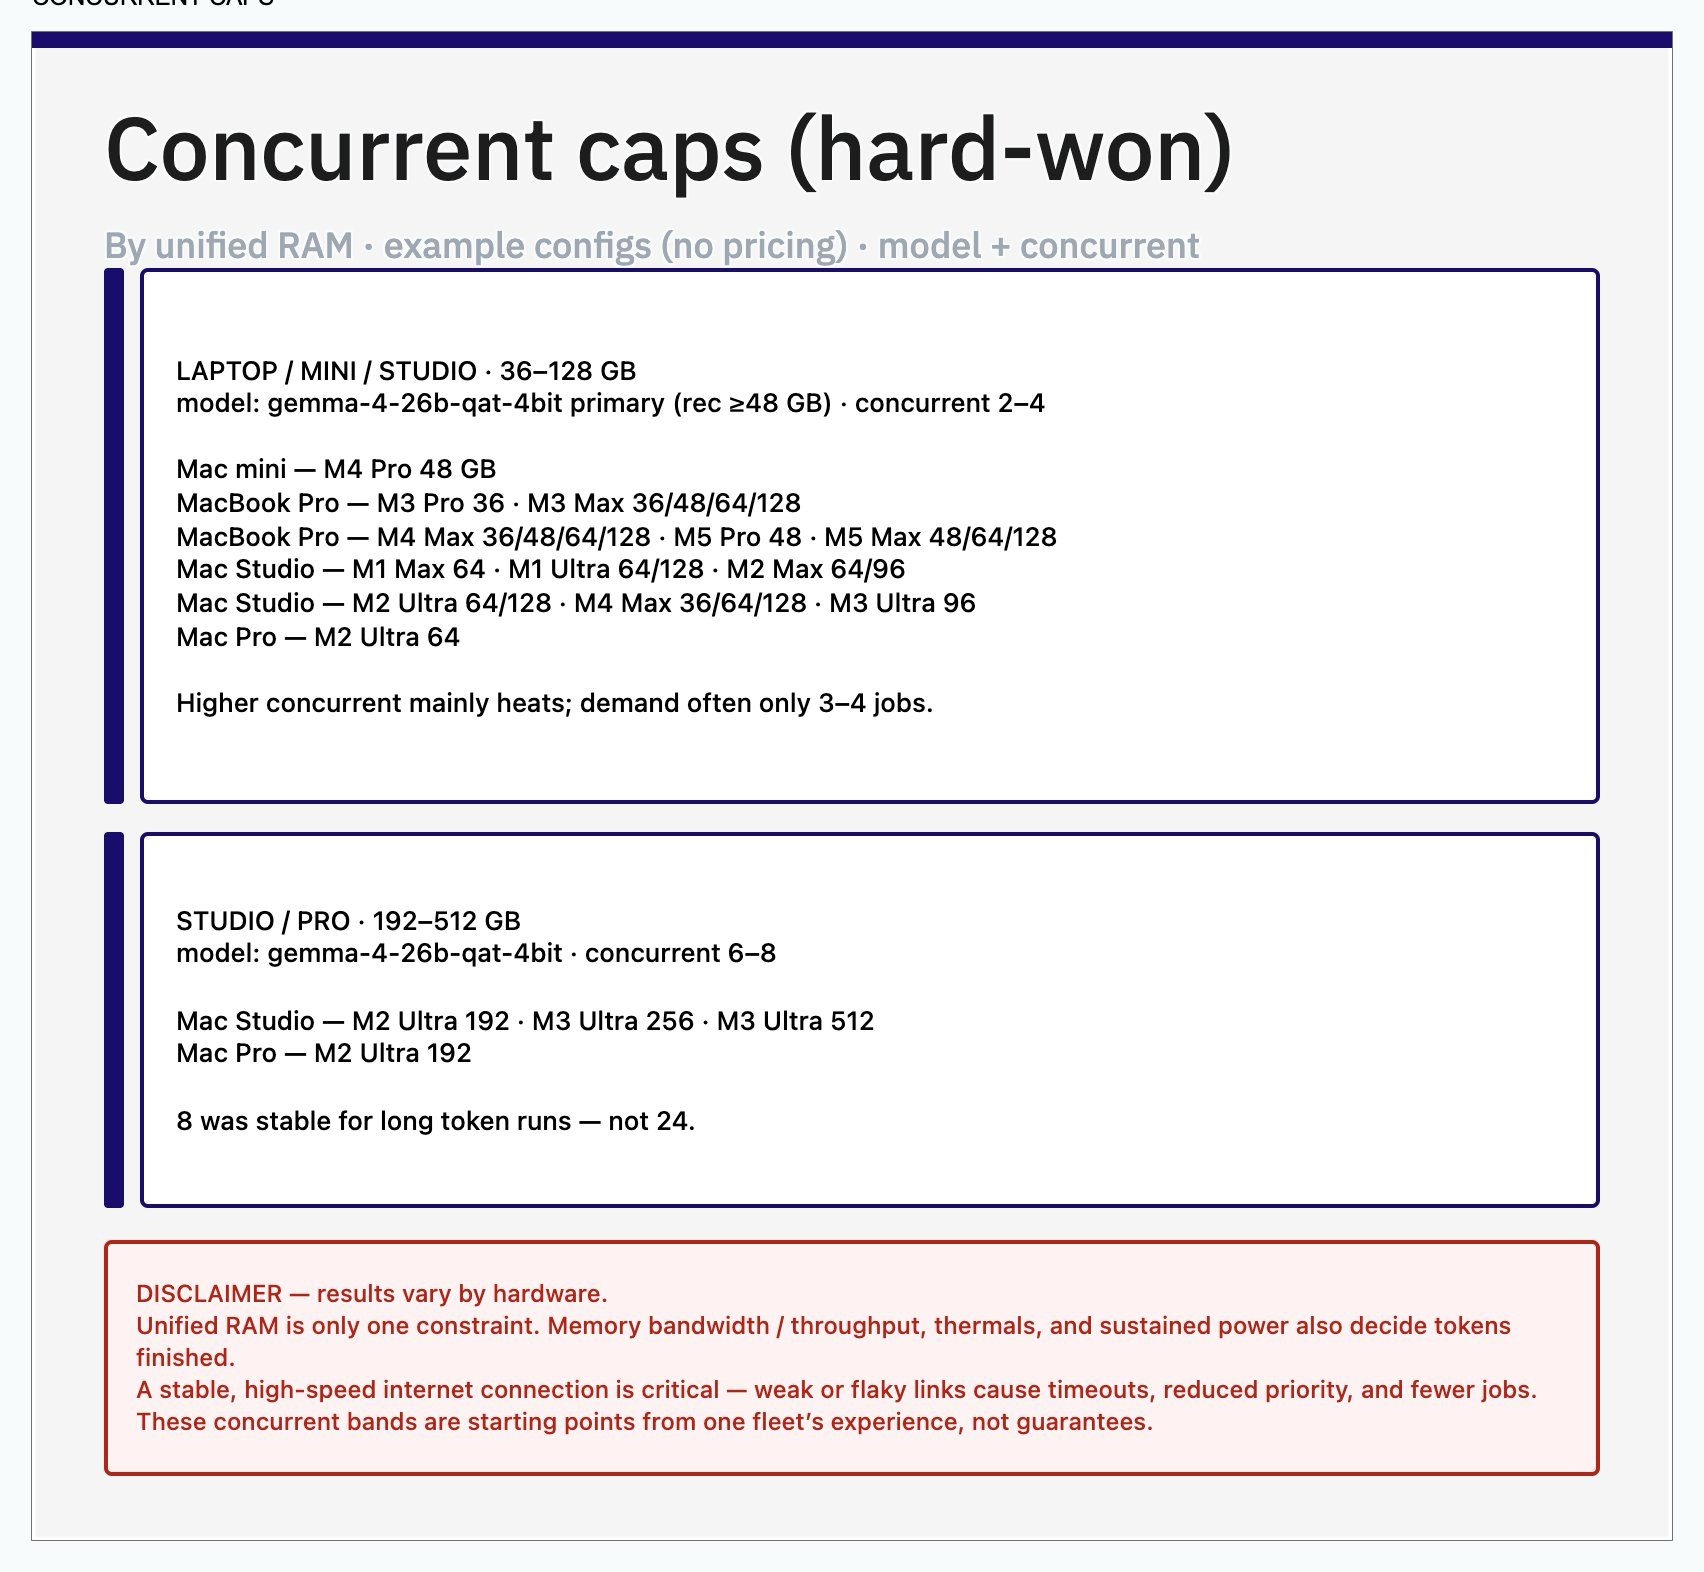
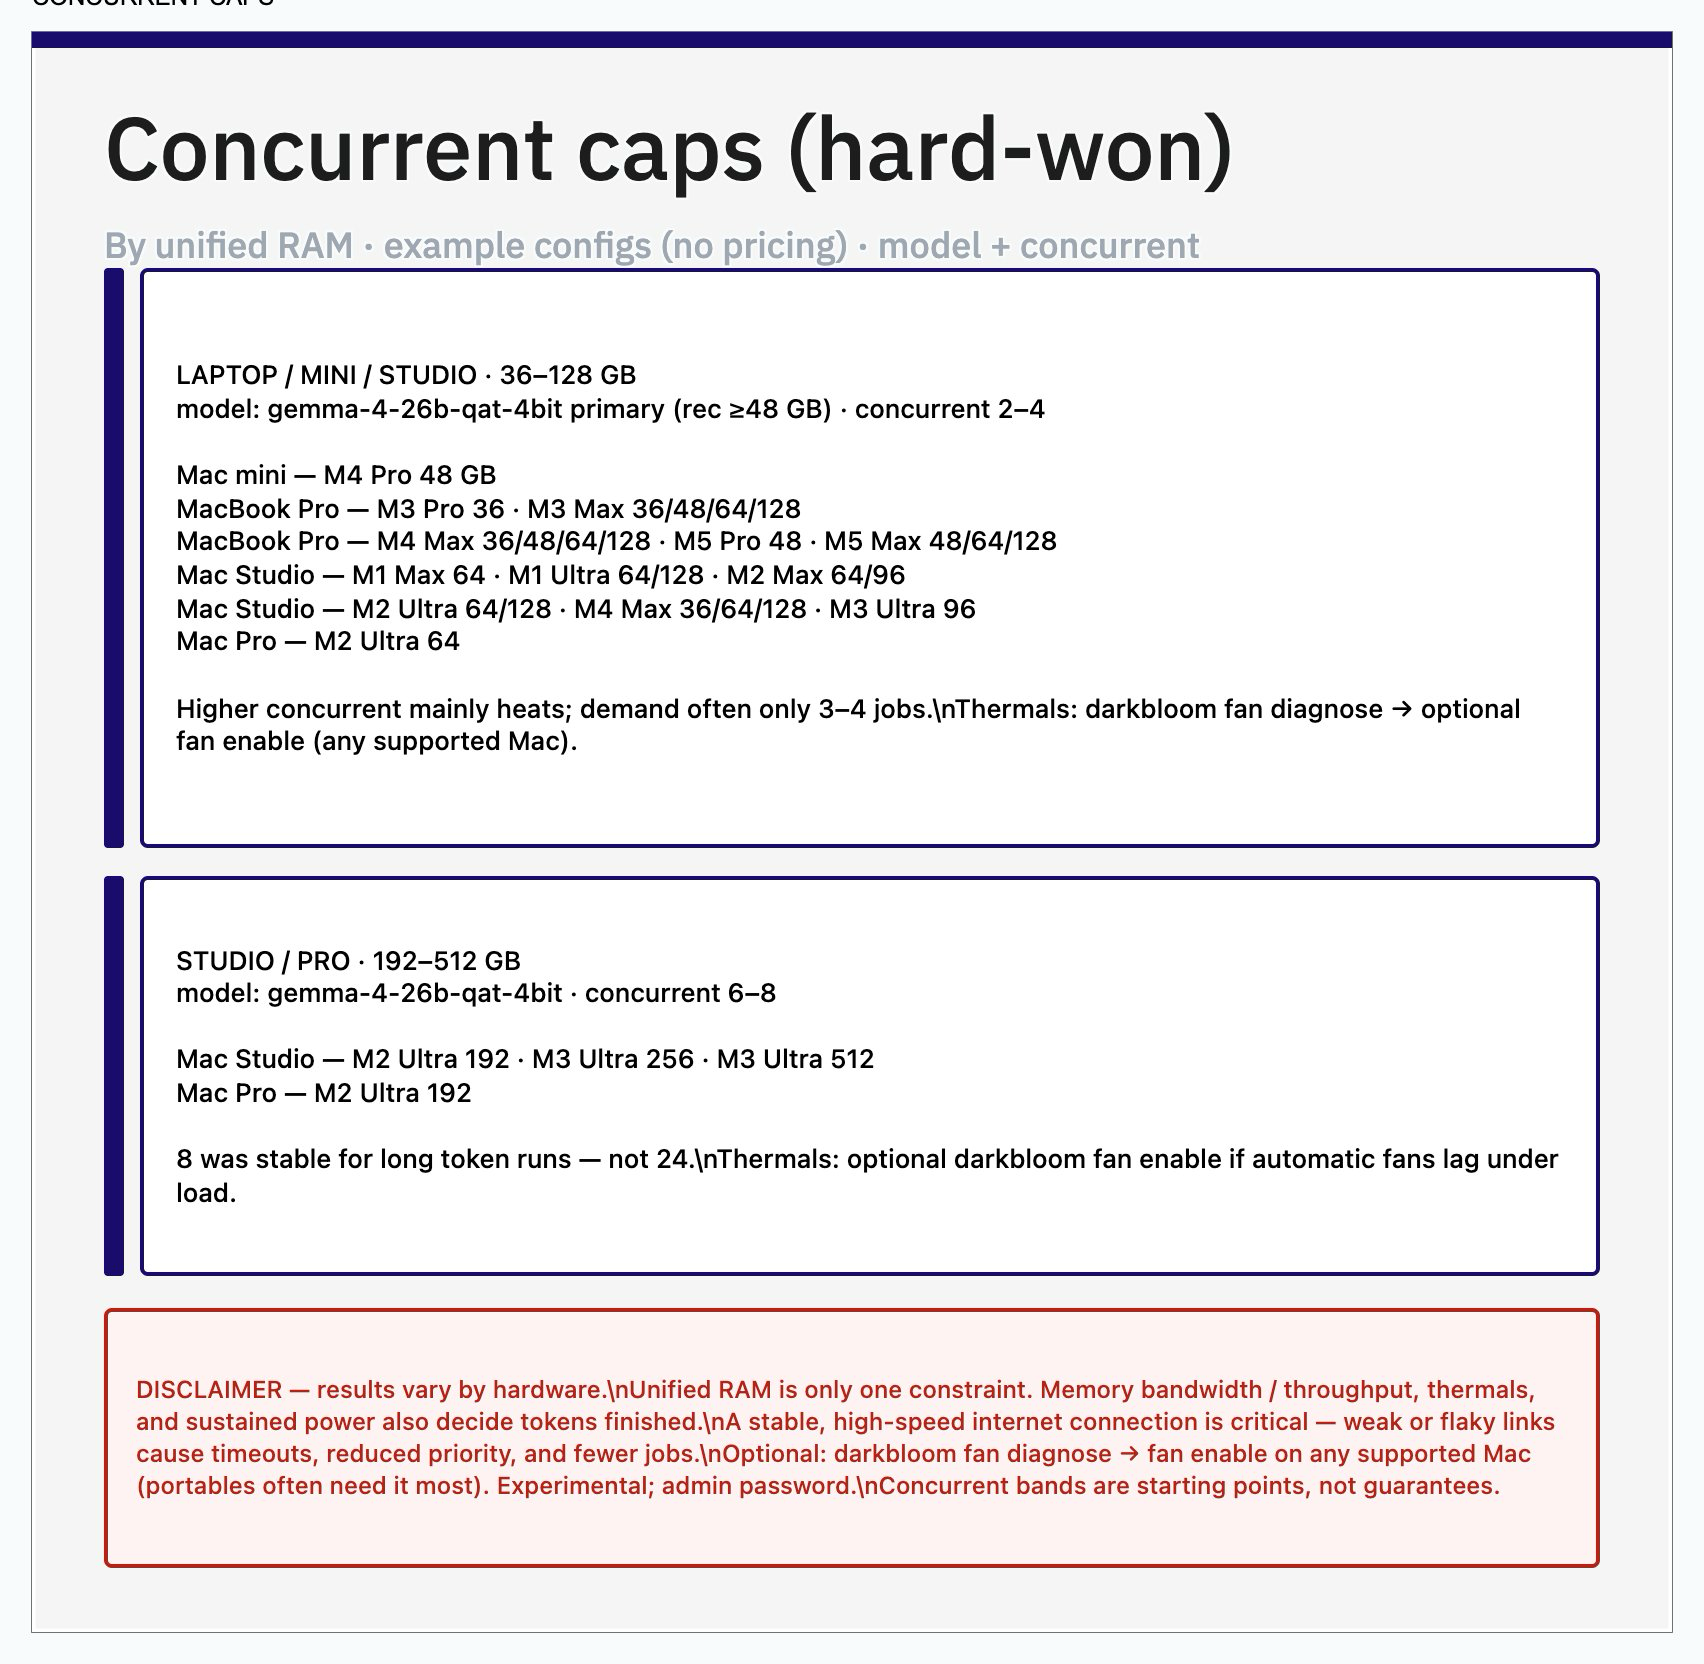
Document experimental fan control for all supported Macs
Add diagnose/enable/configure/disable procedure (not laptop-only;
portables often benefit most). Wire through guide, README, AGENTS,
example config comments, and concurrent/earnings cards with re-exported
PNGs. Fan is CLI/helper only — never a provider.toml key.

diff --git a/guide.md b/guide.md
@@ -300,7 +300,7 @@ v0.7.12 restored exact hybrid SSD prefix reuse for contiguous unquantized Gemma/
 - Stay on **auto_update** (watchdog + predecessor rollback is the safety net).
 - Keep models **warm** (`idle_timeout_mins = 0` on dedicated earn boxes).
 - Prefer **fewer concurrent jobs finishing fast** over many jobs timing out.
-- Keep the machine cool enough that you don’t thermal-throttle mid-stream.
+- Keep the machine cool enough that you don’t thermal-throttle mid-stream (`darkbloom fan diagnose` / optional `fan enable` — see below).
 - After any bad spell: **wait online**, don’t config-thrash.
 
 ### Avoid these
@@ -316,11 +316,62 @@ v0.7.12 restored exact hybrid SSD prefix reuse for contiguous unquantized Gemma/
 | Leaving laptop sleep / no auto-login | Invisible offline hours |
 | Ignoring reduced priority for days | You silently fall out of the good queue |
 
-### Thermals (especially laptops)
+### Thermals
 
-- Elevated fans under load are normal.
-- Sustained thermal + “reduced priority” → lower concurrent, elevate chassis, check Energy Mode.
-- Experimental: `darkbloom fan status` / fan policy (root helper). Only if you understand the risk; not required for earnings.
+Elevated fans under sustained inference are normal. Sustained heat + thermal throttle often shows up as timeouts and **reduced priority** — lower concurrent, improve airflow/ventilation, stay plugged in, and consider fan control below.
+
+### Fan control (thermals) — all Apple Silicon providers
+
+Darkbloom ships **opt-in experimental** temperature-based fan control. It is **not** laptop-only: any supported Mac can use it. **Portables often benefit most** (thinner chassis, more throttle under continuous warm serve); Studio/mini/desktop boxes can enable it too when automatic fans lag under load.
+
+| Fact | Detail |
+|------|--------|
+| Default | **Off** — macOS automatic fan control |
+| Not in | `provider.toml` (CLI + privileged helper only) |
+| Enable | Installs a narrowly scoped **root helper** — admin password required |
+| When it acts | Only while a **signed Darkbloom provider is active** and a validated **GPU sensor is hot enough** |
+| Knobs | `--speed` 60–90% of each fan’s max (default **80**); `--temperature` °C engage threshold (default **45**) |
+| Undo | `darkbloom fan disable` (restore automatic) · `darkbloom fan uninstall` (remove helper) |
+
+**Always diagnose first** (compatibility varies by chip/sensor map):
+
+```bash
+darkbloom fan diagnose
+# or: darkbloom fan status
+```
+
+If `Compatibility: supported` (or equivalent) and you want more aggressive cooling while earning:
+
+```bash
+# defaults: --speed 80 --temperature 45  (admin prompt)
+darkbloom fan enable
+
+# or explicit:
+darkbloom fan enable --speed 80 --temperature 45
+
+darkbloom fan status
+```
+
+Tune after enable:
+
+```bash
+darkbloom fan configure --speed 75 --temperature 50
+```
+
+Back to stock macOS fans:
+
+```bash
+darkbloom fan disable
+# fully remove helper:
+# darkbloom fan uninstall
+```
+
+**Caveats**
+
+- Experimental — can be **louder**; not required if thermals and priority stay healthy on automatic.
+- Does **not** replace modest concurrent, good ventilation, or a plugged-in always-on setup.
+- Re-check after provider upgrades: `darkbloom help fan` (subcommand surface can move in alpha).
+- Policy on disk (root): `/Library/Application Support/Darkbloom/fan-policy.json` when installed.
 
 ---
 
@@ -410,7 +461,7 @@ Doctor RAM estimate can lag reality. Prefer live `status` + console if traffic i
 
 ### Profile A — Dedicated Studio ≥128 GB (max reliable tokens)
 
-- Models: **`gemma-4-26b-qat-4bit` + `gpt-oss-20b`** (gemma-first dual-warm)
+- Models: **`gemma-4-26b-qat-4bit` + `gpt-oss-20b`** (gemma-first dual-warm) — concurrent bands in this guide are gemma-first; dual-warm only if healthy
 - Recommended RAM: **192–512 GB** class
 - Concurrent: **8**
 - Idle: **0**
@@ -419,6 +470,7 @@ Doctor RAM estimate can lag reality. Prefer live `status` + console if traffic i
 - MLX env reserve: **~32** on 512 GB (tune to leave OS comfortable)
 - Auto login: **on**
 - Auto update / restart: **on**
+- **Fan control:** optional if automatic cooling lags under continuous load (`darkbloom fan diagnose` first)
 
 ### Profile B — Laptop / mini ≥48 GB (earn without melting)
 
@@ -429,6 +481,7 @@ Doctor RAM estimate can lag reality. Prefer live `status` + console if traffic i
 - MTP: **on**
 - MLX env reserve: **higher** (e.g. 40 on 128 GB) so the machine stays usable
 - Auto login: strongly recommended if it’s a dedicated earn lid-open box
+- **Fan control:** `darkbloom fan diagnose` → optional `fan enable` (experimental; highly useful on continuous laptop serve; also fine on desktops)
 
 ### Profile C — Small Mac 24–32 GB (gpt-oss path)
 

diff --git a/AGENTS.md b/AGENTS.md
@@ -56,6 +56,7 @@ These are load-bearing; if the live catalog contradicts them, **say so** and fol
 - **Dedicated earn boxes:** `idle_timeout_mins = 0` so models stay warm.
 - **Gemma speed:** MTP on via `darkbloom beta enable mtp` when serving gemma (if still available).
 - **Reliability > throughput cosplay.** Deadlines and reduced priority lose tomorrow’s jobs.
+- **Fan control (optional, all hardware):** experimental `darkbloom fan` — **not** a `provider.toml` key. Not laptop-only; portables often benefit most. Always `darkbloom fan diagnose` before enable; admin password for root helper.
 
 ## Hardware / network honesty (always surface)
 
@@ -66,6 +67,20 @@ When recommending hardware, concurrent, or dual-warm:
 - **Stable, high-speed internet is critical** — flaky links → timeouts → reduced priority.
 - Guide concurrent bands and Mac examples are **starting points**, not guarantees.
 - **No earnings promises** and no “buy this Mac and make $X.”
+- Under heat / reduced priority: cut concurrent **and** consider `darkbloom fan diagnose` → optional `fan enable` (if supported). Do not invent TOML fan settings.
+
+### Fan CLI (quick)
+
+```bash
+darkbloom fan diagnose
+darkbloom fan enable --speed 80 --temperature 45   # admin prompt; defaults similar
+darkbloom fan status
+darkbloom fan configure --speed 75 --temperature 50
+darkbloom fan disable
+# darkbloom fan uninstall
+```
+
+See `guide.md` § Fan control for full caveats.
 
 ## Config paths (provider machine)
 
@@ -88,7 +103,7 @@ Backup `provider.toml` before edits. Prefer surgical TOML changes + `darkbloom r
 |---------|-------------|
 | Zero jobs but doctor green | Quiet demand or reputation lag — wait; confirm console fleet; avoid restart thrash |
 | Warm empty / `model_not_loaded` | Preload, idle 0, exact model id, local kick via `--local-endpoint` |
-| Reduced priority / 120s deadlines | Cut concurrent; drop second model; cool machine; stay online |
+| Reduced priority / 120s deadlines | Cut concurrent; drop second model; cool machine; `fan diagnose` / optional enable; stay online |
 | After update looks colder | Stay warm; cache epoch may rebuild — don’t thrash restarts |
 
 Always re-check: `darkbloom doctor`, `darkbloom status`, console priority / 24h tokens (CLI counters **reset on restart**).

diff --git a/README.md b/README.md
@@ -110,6 +110,19 @@ Higher concurrent mainly **heats**; demand often only 3–4 jobs on laptops. **8
 
 See [Disclaimer](#disclaimer): RAM alone is not enough; bandwidth + network matter.
 
+### Fan control (any supported Mac)
+
+Opt-in experimental CLI — **not** in `provider.toml`. Not laptop-only; portables often need it most under continuous serve.
+
+```bash
+darkbloom fan diagnose          # check compatibility first
+darkbloom fan enable            # admin password; defaults ~80% speed @ 45°C GPU
+darkbloom fan status
+# darkbloom fan disable         # restore macOS automatic
+```
+
+Full detail: [`guide.md` — Fan control](./guide.md#fan-control-thermals--all-apple-silicon-providers).
+
 ---
 
 ## 05 · Earnings-max profile
@@ -124,6 +137,7 @@ Reliable baseline knobs:
 - `enabled_models` pinned (gemma and/or gpt-oss only)  
 - concurrent modest (see §04)  
 - hardware trust / online  
+- **thermals:** `darkbloom fan diagnose` → optional `fan enable` if supported and you run warm continuously  
 
 Example TOML: [`config/examples/provider-earnings-max.toml`](./config/examples/provider-earnings-max.toml)
 
@@ -171,6 +185,8 @@ darkbloom beta enable mtp
 darkbloom restart
 darkbloom models catalog
 darkbloom models list
+darkbloom fan diagnose
+darkbloom fan status
 ```
 
 ---

diff --git a/config/examples/README.md b/config/examples/README.md
@@ -13,3 +13,12 @@ darkbloom doctor
 ```
 
 Adjust `engine_v2_max_concurrent` and `enabled_models` for your RAM band — see the main [README](../../README.md#04--concurrent-caps-hard-won).
+
+**Fan control** is not in TOML. After the provider is running on a supported Mac:
+
+```bash
+darkbloom fan diagnose
+darkbloom fan enable    # optional; admin password; experimental
+```
+
+See [guide.md — Fan control](../../guide.md#fan-control-thermals--all-apple-silicon-providers).
